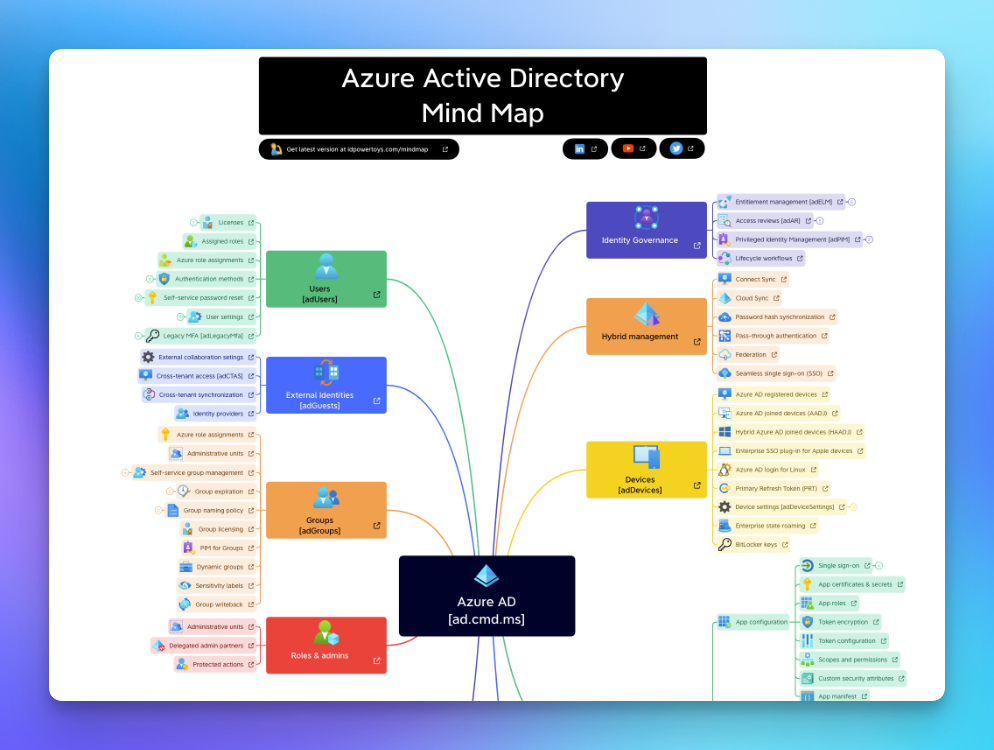
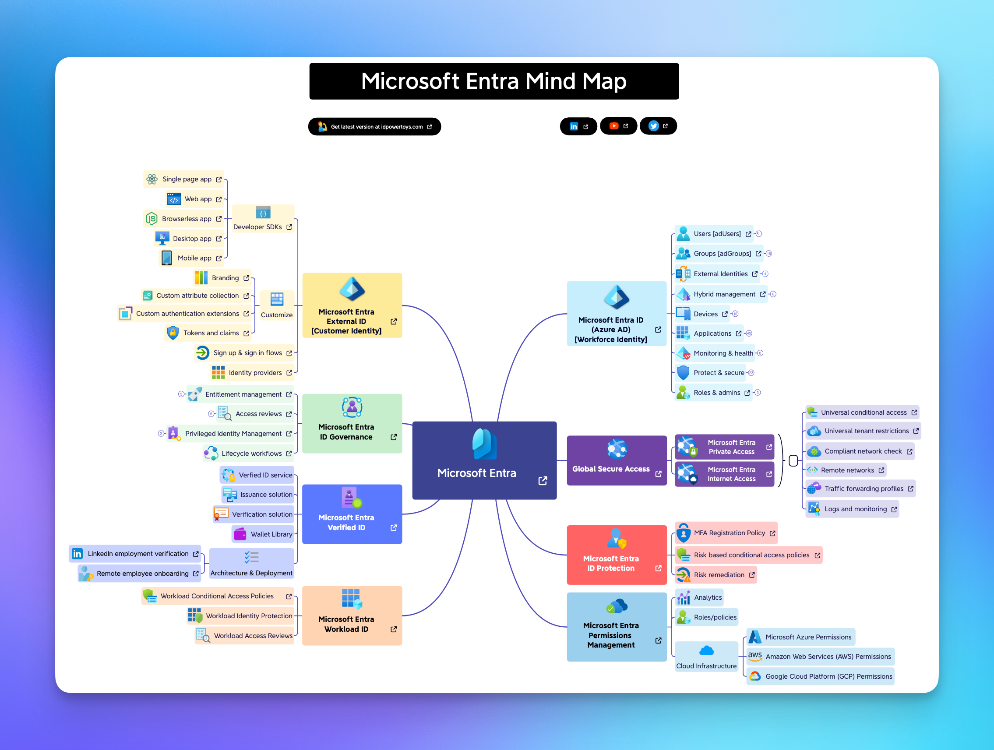
Added Microsoft Entra mindmap

diff --git a/src/reactapp/src/components/WhatsNewCards.jsx b/src/reactapp/src/components/WhatsNewCards.jsx
@@ -77,7 +77,7 @@ const ConditionalAccessCard = (props) => {
                     />
 
                     <p className={styles.text}>
-                        Export your conditional access policies to PowerPoint for a bird's eye view of your security posture. Share you policies with security teams and stakeholders without giving admin access to Azure Active Directory.</p>
+                        Export your conditional access policies to PowerPoint for a bird's eye view of your security posture. Share you policies with security teams and stakeholders without granting them admin access to Microsoft Entra ID.</p>
                     <p className={styles.text}>
                         Your conditional access policies will never look the same again.
                     </p>
@@ -95,20 +95,20 @@ const ConditionalAccessCard = (props) => {
                     <CardPreview>
                         <img
                             src="./assets/whatsnew/mindmap.png"
-                            alt="Azure Active Directory Mind map"
+                            alt="Microsoft Entra Mind map"
                         />
                     </CardPreview>
 
                     <CardHeader
                         header={
                             <Body1>
-                                <b>Azure Active Directory Mind Map</b>
+                                <b>Microsoft Entra Mind Map</b>
                             </Body1>
                         }
                     />
 
                     <p className={styles.text}>
-                        The Azure Active Directory Mind Map is a visual representation of the Azure Active Directory service. It is a great way to learn about the Microsoft Identity platform and how it works.
+                        This mindmap is a visual guide to Microsoft Entra and provides a high level overview of all the new products in the service. This new update includes maps for Microsoft Entra and Microsoft Entra ID.
                     </p>
                     <p className={styles.text}>
                         Download the latest version of the mind map and share it with your team.
@@ -116,7 +116,7 @@ const ConditionalAccessCard = (props) => {
 
                     <CardFooter>
                         <Button appearance="primary" icon={<SlideLayout24Filled />}
-                            onClick={() => window.open('/assets/mindmaps/azureadv1.pdf', '_blank', 'noreferrer')}
+                            onClick={() => window.open('/assets/mindmaps/entra-v1.pdf', '_blank', 'noreferrer')}
                         >
                             View mind map
                         </Button>

diff --git a/src/reactapp/src/pages/Home.jsx b/src/reactapp/src/pages/Home.jsx
@@ -12,7 +12,7 @@ function Home() {
     return (
         <div className={styles.container}>
             <Title1 as="h1" block>Identity PowerToys</Title1>
-            <p>idPowerToys is a collection of mini-apps for Microsoft Entra Azure Active Directory. We hope you find them useful.</p>
+            <p>idPowerToys is a collection of mini-apps for Microsoft Entra. We hope you find them useful.</p>
             <p>This app is a community project and is not an official Microsoft product or service.</p>
             <Subtitle1 as="h2" block>What's new</Subtitle1>
             <WhatsNewCards />

diff --git a/src/reactapp/src/components/NavBar.jsx b/src/reactapp/src/components/NavBar.jsx
@@ -18,7 +18,7 @@ export const NavBar = () => {
                     <Button appearance="secondary" onClick={() => navigate('/ca')} >CA Documenter</Button>
                 </li>
                 <li>
-                    <Button appearance="secondary" onClick={() => window.open('/assets/mindmaps/azureadv1.pdf', '_blank', 'noreferrer')} >Mind Map</Button>
+                    <Button appearance="secondary" onClick={() => window.open('/assets/mindmaps/entra-v1.pdf', '_blank', 'noreferrer')} >Mind Map</Button>
                 </li>
             </ul>
         </>
